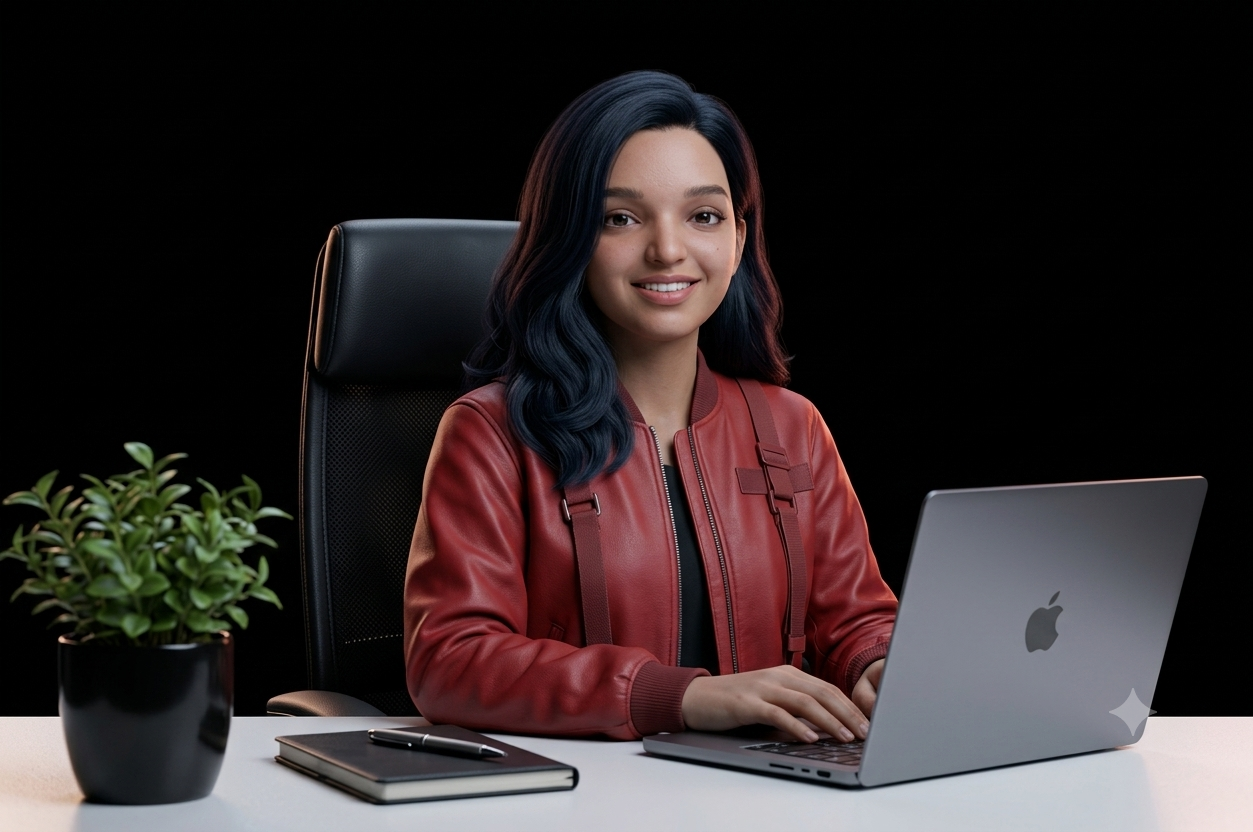
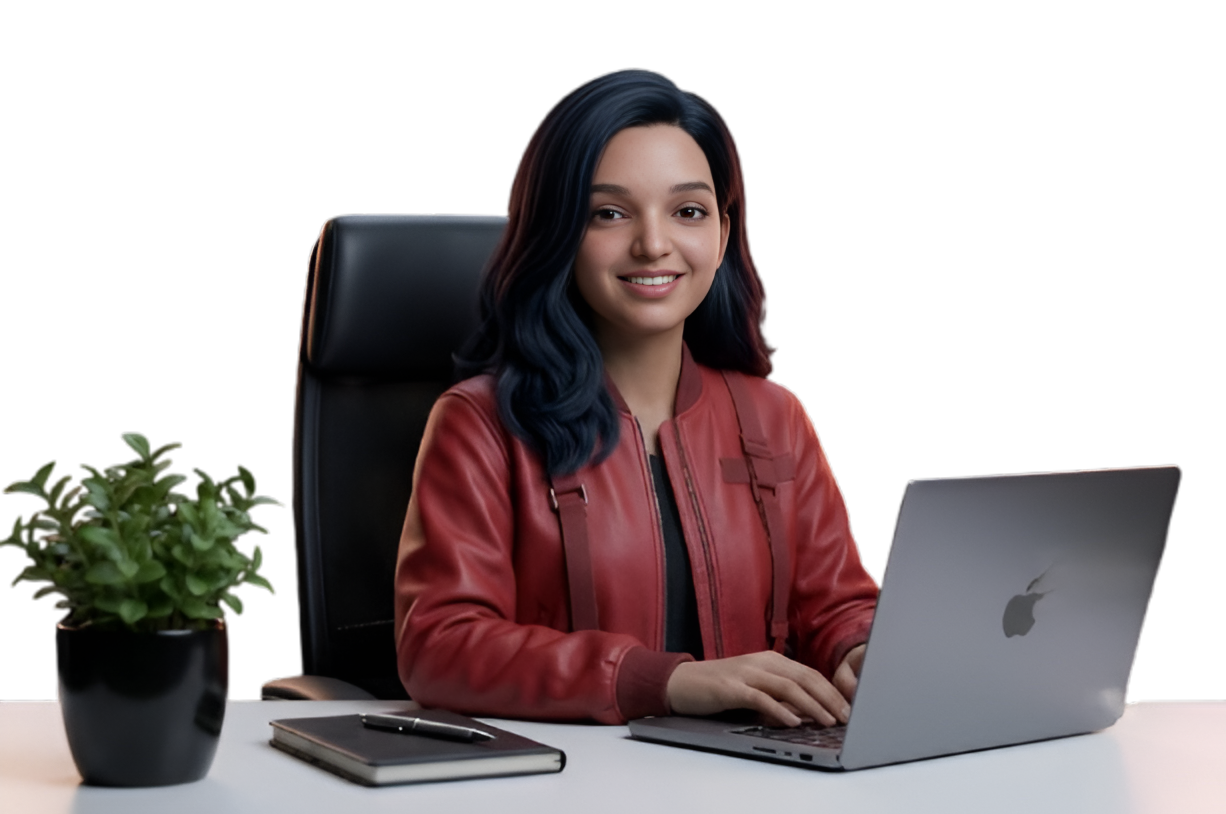
clear the blur

diff --git a/src/components/HeroSection.tsx b/src/components/HeroSection.tsx
@@ -16,7 +16,10 @@ export default function HeroSection() {
   return (
     <section
       ref={sectionRef}
-      className="relative h-[85vh] w-full flex items-center justify-center overflow-hidden"
+      className="relative h-screen w-full flex items-center justify-center overflow-hidden"
+      style={{
+        background: "linear-gradient(160deg, #080808 0%, #110A0A 30%, #1A0C0C 55%, #080808 100%)",
+      }}
     >
       {/* ── Floating blur shapes ─────────────────────── */}
       <div className="absolute inset-0 overflow-hidden pointer-events-none z-10">
@@ -51,13 +54,12 @@ export default function HeroSection() {
             top: "60%",
             left: "50%",
             transform: "translate(-50%, -50%)",
-            filter: "blur(80px)",
           }}
         />
       </div>
 
       {/* ── Background image with parallax ─────────── */}
-      <motion.div className="absolute inset-0 z-0 flex items-center justify-center" style={{ y: bgY }}>
+      <motion.div className="absolute inset-0 z-0 flex items-center justify-center pt-16" style={{ y: bgY }}>
         <div className="relative w-full h-full scale-[1.15]">
           <Image
             src="/krupa-avatar.png"
@@ -69,17 +71,6 @@ export default function HeroSection() {
           />
         </div>
       </motion.div>
-
-      {/* Dark gradient overlay — same directional feel as reference */}
-      <div
-        className="absolute inset-0 z-[2]"
-        style={{
-          background:
-            "linear-gradient(135deg, rgba(22,19,15,0.55) 0%, rgba(22,19,15,0.35) 40%, rgba(22,19,15,0.10) 70%, rgba(22,19,15,0.00) 100%)",
-        }}
-      />
-
-
     </section>
   );
 }

diff --git a/src/components/Nav.tsx b/src/components/Nav.tsx
@@ -15,9 +15,11 @@ export default function Nav() {
   const pathname = usePathname();
   const { scrollY } = useScroll();
 
-  const bgOpacity   = useTransform(scrollY, [0, 40], [0, 0.88]);
-  const blurPx      = useTransform(scrollY, [0, 40], [0, 14]);
-  const borderAlpha = useTransform(scrollY, [0, 40], [0, 0.12]);
+  const isHome = pathname === "/";
+
+  const bgOpacity   = useTransform(scrollY, [0, 40], [isHome ? 1 : 0, 0.88]);
+  const blurPx      = useTransform(scrollY, [0, 40], [isHome ? 0 : 0, 14]);
+  const borderAlpha = useTransform(scrollY, [0, 40], [isHome ? 0.12 : 0, 0.12]);
 
   const bg  = useMotionTemplate`rgba(250, 247, 242, ${bgOpacity})`;
   const blur = useMotionTemplate`blur(${blurPx}px)`;